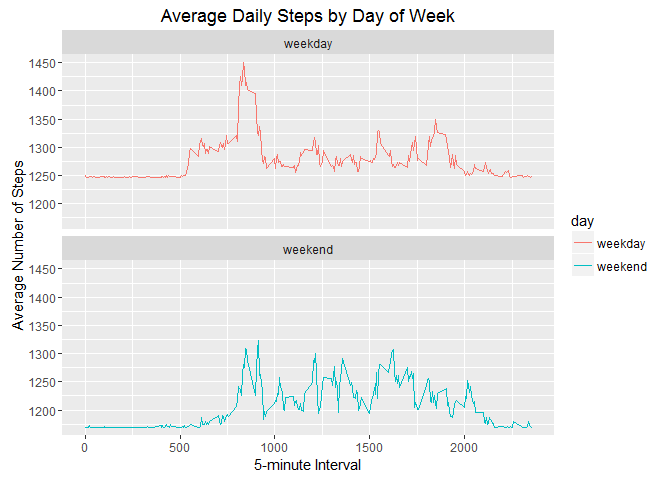
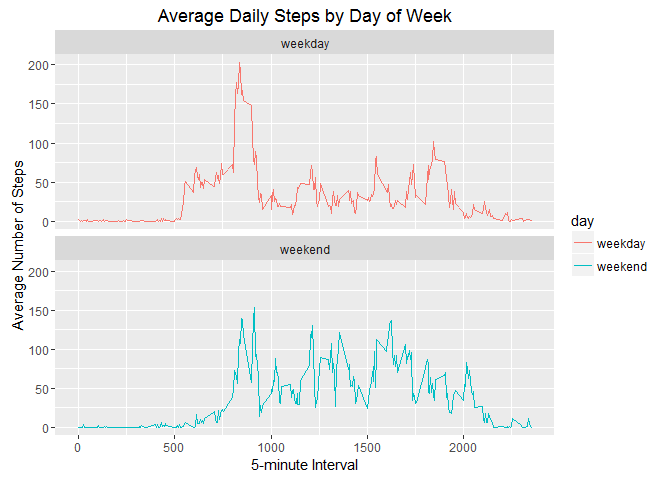
last changes committed.

diff --git a/PA1_template.html b/PA1_template.html
@@ -170,8 +170,8 @@ max_steps</code></pre>
 <pre><code>## 835 
 ## 104</code></pre>
 </div>
-<div id="imputing-missing-values" class="section level2">
-<h2>Imputing missing values</h2>
+<div id="inputing-missing-values" class="section level2">
+<h2>Inputing missing values</h2>
 <ol style="list-style-type: decimal">
 <li>Calculate and report the total number of missing values in the dataset (i.e. the total number of rows with NAs)</li>
 </ol>
@@ -179,31 +179,34 @@ max_steps</code></pre>
 missing</code></pre>
 <pre><code>## [1] 2304</code></pre>
 <ol start="2" style="list-style-type: decimal">
-<li><p>Devise a strategy for filling in all of the missing values in the dataset. The strategy does not need to be sophisticated. For example, you could use the mean/median for that day, or the mean for that 5-minute interval, etc.</p></li>
-<li><p>Create a new dataset that is equal to the original dataset but with the missing data filled in.</p></li>
+<li>Devise a strategy for filling in all of the missing values in the dataset. The strategy does not need to be sophisticated. For example, you could use the mean/median for that day, or the mean for that 5-minute interval, etc.</li>
+</ol>
+<p>I decided to fill in the NA’s of this dataset with “0’s”.</p>
+<ol start="3" style="list-style-type: decimal">
+<li>Create a new dataset that is equal to the original dataset but with the missing data filled in.</li>
 </ol>
 <pre class="r"><code>activity2 &lt;- activity
-activity2$steps[is.na(activity2$steps)] &lt;- mean_steps</code></pre>
+activity2[is.na(activity2$steps),]$steps &lt;- 0</code></pre>
 <ol start="4" style="list-style-type: decimal">
 <li>Make a histogram of the total number of steps taken each day</li>
 </ol>
 <pre class="r"><code>total2_steps &lt;- tapply(activity2$steps, activity2$date, sum)
 hist(total2_steps, ylab=&quot;Count&quot;, xlab=&quot;Steps&quot;,
      main=&quot;Total Number of Steps Per Day&quot;,
-     sub=&quot;(NA's changed to Mean)&quot;,
-     col=&quot;coral&quot;, breaks = 5)</code></pre>
[1 lines of base64/hex data omitted]
+     sub=&quot;(NA's changed to 0)&quot;,
+     col=&quot;coral&quot;, breaks = 20)</code></pre>
[1 lines of base64/hex data omitted]
 <p>Calculate and report the mean and median total number of steps taken per day.</p>
 <pre class="r"><code>mean2_steps &lt;- mean(total2_steps)
 mean2_steps</code></pre>
-<pre><code>## [1] 362668.1</code></pre>
+<pre><code>## [1] 9354.23</code></pre>
 <pre class="r"><code>med2_steps &lt;- median(total2_steps)
 med2_steps</code></pre>
-<pre><code>## [1] 11458</code></pre>
-<p>Do these values differ from the estimates from the first part of the assignment?<br />
-Yes!</p>
+<pre><code>## [1] 10395</code></pre>
+<p>Do these values differ from the estimates from the first part of the assignment?</p>
+<p>No.</p>
 <p>What is the impact of inputing missing data on the estimates of the total daily number of steps?</p>
-<p>Adding in in the mean of the total number of steps for the missing data, increases the total, especially at the beginning and the end of the dataset where the most missing data was.</p>
+<p>The NA’s were ignored when creating the first set, so making them “0’s”, didn’t make a difference.</p>
 </div>
 <div id="are-there-differences-in-activity-patterns-between-weekdays-and-weekends" class="section level2">
 <h2>Are there differences in activity patterns between weekdays and weekends?</h2>
@@ -229,7 +232,7 @@ g &lt;- ggplot(Interval, aes(interval, avg.steps, color=day))
 g + geom_line() + facet_wrap(~day, nrow=2, ncol=1) +
     labs(title = &quot;Average Daily Steps by Day of Week&quot;, 
          x = &quot;5-minute Interval&quot;, y = &quot;Average Number of Steps&quot;) </code></pre>
[2 lines of base64/hex data omitted]
 </div>
 
 

diff --git a/PA1_template.md b/PA1_template.md
@@ -85,7 +85,7 @@ max_steps
 
 
 
-## Imputing missing values
+## Inputing missing values
 1. Calculate and report the total number of missing values 
  in the dataset (i.e. the total number of rows with NAs)
 
@@ -104,13 +104,15 @@ missing
  sophisticated. For example, you could use the mean/median 
  for that day, or the mean for that 5-minute interval, etc.
 
+I decided to fill in the NA's of this dataset with "0's".
+
  3. Create a new dataset that is equal to the original 
  dataset but with the missing data filled in. 
 
 
 ```r
 activity2 <- activity
-activity2$steps[is.na(activity2$steps)] <- mean_steps
+activity2[is.na(activity2$steps),]$steps <- 0
 ```
 
  4. Make a histogram of the total number of steps taken 
@@ -121,8 +123,8 @@ each day
 total2_steps <- tapply(activity2$steps, activity2$date, sum)
 hist(total2_steps, ylab="Count", xlab="Steps",
      main="Total Number of Steps Per Day",
-     sub="(NA's changed to Mean)",
-     col="coral", breaks = 5)
+     sub="(NA's changed to 0)",
+     col="coral", breaks = 20)
 ```
 
 ![](PA1_template_files/figure-html/unnamed-chunk-9-1.png)<!-- -->
@@ -136,7 +138,7 @@ mean2_steps
 ```
 
 ```
-## [1] 362668.1
+## [1] 9354.23
 ```
 
 ```r
@@ -145,16 +147,18 @@ med2_steps
 ```
 
 ```
-## [1] 11458
+## [1] 10395
 ```
 
 Do these values differ from the estimates from the first  part of the assignment?   
-Yes!
+
+No.
  
  
 What is the impact of inputing missing data on the estimates of the total daily number of steps?  
 
-Adding in in the mean of the total number of steps for the missing data, increases the total, especially at the beginning and the end of the dataset where the most missing data was.  
+The NA's were ignored when creating the first set, so
+making them "0's", didn't make a difference.
 
 
 ## Are there differences in activity patterns between weekdays and weekends?
